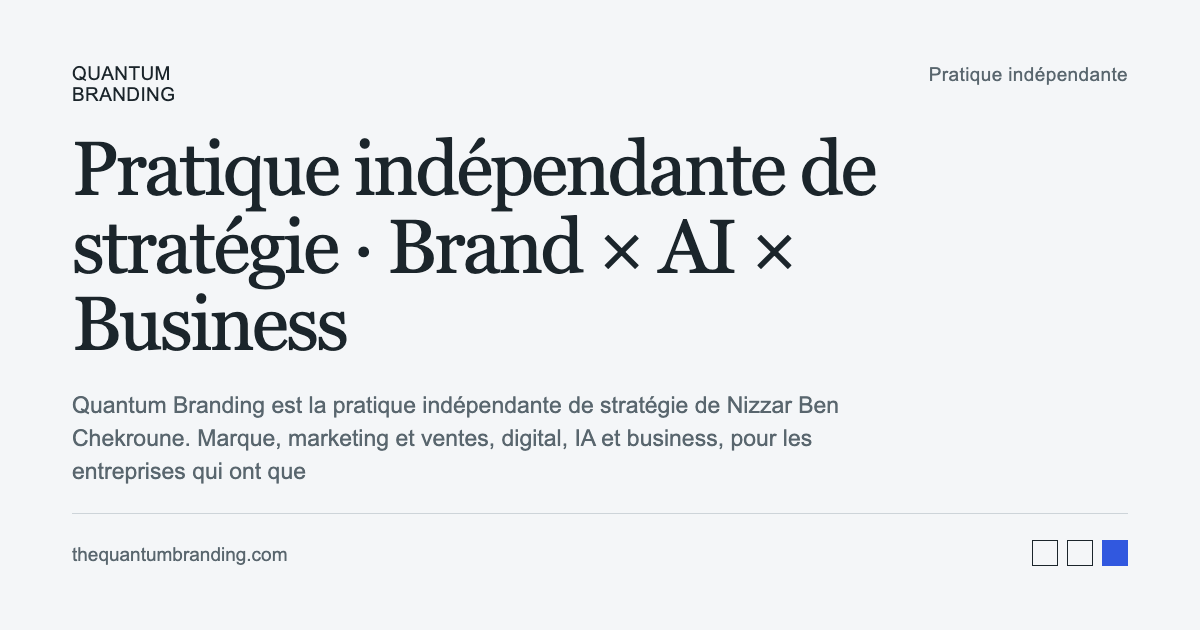
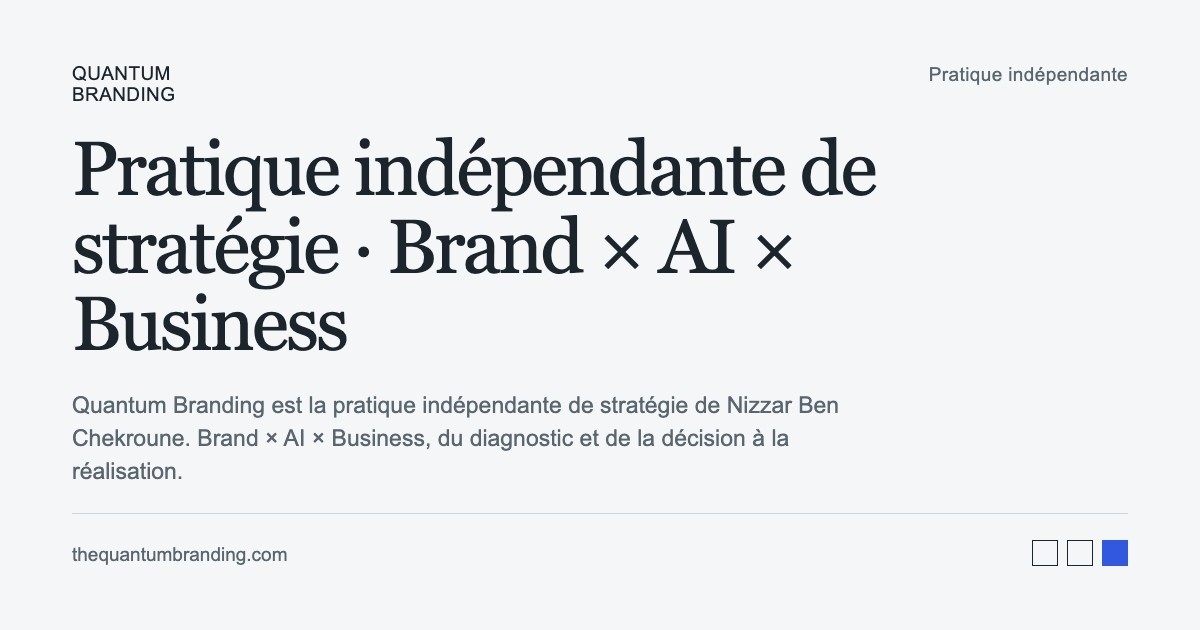
Clarify execution, diagnosis and product roles on the homepage

Changed region(s): [[0.0617, 0.6635, 0.6783, 0.7841]]

diff --git a/index.html b/index.html
@@ -4,7 +4,7 @@
 <meta charset="utf-8">
 <meta name="viewport" content="width=device-width,initial-scale=1">
 <title>Quantum Branding — Independent strategy practice · Brand × AI × Business</title>
-<meta name="description" content="Quantum Branding is the independent strategy practice of Nizzar Ben Chekroune. Brand, marketing and sales, digital, AI and business, for companies with something important to improve, launch, rethink or build.">
+<meta name="description" content="Quantum Branding is Nizzar Ben Chekroune’s independent strategy practice across Brand × AI × Business, from diagnosis and decision through implementation.">
 <meta name="author" content="Nizzar Ben Chekroune">
 <meta name="theme-color" content="#f4f6f8">
 <link rel="canonical" href="https://thequantumbranding.com/">
@@ -14,7 +14,7 @@
 <meta property="og:type" content="website">
 <meta property="og:site_name" content="Quantum Branding">
 <meta property="og:title" content="Quantum Branding — Independent strategy practice · Brand × AI × Business">
-<meta property="og:description" content="Quantum Branding is the independent strategy practice of Nizzar Ben Chekroune. Brand, marketing and sales, digital, AI and business, for companies with something important to improve, launch, rethink or build.">
+<meta property="og:description" content="Quantum Branding is Nizzar Ben Chekroune’s independent strategy practice across Brand × AI × Business, from diagnosis and decision through implementation.">
 <meta property="og:url" content="https://thequantumbranding.com/">
 <meta property="og:image" content="https://thequantumbranding.com/og/en-home.png">
 <meta property="og:image:width" content="1200">
@@ -24,7 +24,7 @@
 <meta property="og:locale:alternate" content="fr_FR">
 <meta name="twitter:card" content="summary_large_image">
 <meta name="twitter:title" content="Quantum Branding — Independent strategy practice · Brand × AI × Business">
-<meta name="twitter:description" content="Quantum Branding is the independent strategy practice of Nizzar Ben Chekroune. Brand, marketing and sales, digital, AI and business, for companies with something important to improve, launch, rethink or build.">
+<meta name="twitter:description" content="Quantum Branding is Nizzar Ben Chekroune’s independent strategy practice across Brand × AI × Business, from diagnosis and decision through implementation.">
 <meta name="twitter:image" content="https://thequantumbranding.com/og/en-home.png">
 <meta name="twitter:image:alt" content="Independent strategy practice · Brand × AI × Business · Quantum Branding">
 <link rel="icon" href="/favicon.svg" type="image/svg+xml">
@@ -34,7 +34,7 @@
 <link rel="stylesheet" href="/assets/visual-restoration.css">
 <link rel="stylesheet" href="/assets/kinetic.css">
 <link rel="stylesheet" href="/assets/studio.css">
-<script type="application/ld+json">{"@context":"https://schema.org","@graph":[{"@type":"Organization","@id":"https://thequantumbranding.com/#organization","name":"Quantum Branding","alternateName":"The Quantum Branding","description":"Independent strategy practice of Nizzar Ben Chekroune across Brand × AI × Business: brand and positioning, marketing and sales, digital and experience, AI, and business.","foundingDate":"2024","url":"https://thequantumbranding.com","sameAs":["https://www.linkedin.com/company/thequantumbranding/"],"knowsAbout":["Brand & Positioning","Marketing & Sales","Digital & Experience","AI & Intelligent Systems","AI Training & Adoption","Business & Opportunity"],"email":"me@qtmbg.com","founder":{"@id":"https://nizzar.com/#person"},"knowsLanguage":["en","fr"],"slogan":"Making got cheap. Deciding didn’t."},{"@type":"Person","@id":"https://nizzar.com/#person","name":"Nizzar Ben Chekroune","alternateName":["Nizzar","thenizzar"],"jobTitle":"Brand Strategist","description":"Brand Strategist and founder of Quantum Branding, working across Brand × AI × Business. His way of working is Perceptual Composition.","url":"https://nizzar.com","worksFor":{"@id":"https://thequantumbranding.com/#organization"},"sameAs":["https://www.linkedin.com/in/nizzar/","https://instagram.com/thenizzar","https://sessionize.com/nizzar/","https://www.imdb.com/name/nm8517643/"],"subjectOf":{"@type":"CreativeWork","url":"https://artsandculture.google.com/story/meet-the-judges-of-the-global-design-graduate-show-global-design-graduate-show/IAUxkXdAFpJIsA?hl=en"}},{"@type":"SoftwareApplication","@id":"https://quantumbranding.ai/#software","name":"BrandOS","alternateName":"BrandOS by Quantum Branding","applicationCategory":"BusinessApplication","operatingSystem":"Web","url":"https://quantumbranding.ai","publisher":{"@id":"https://thequantumbranding.com/#organization"}},{"@type":"WebPage","@id":"https://thequantumbranding.com/#page","name":"Independent strategy practice · Brand × AI × Business","headline":"Independent strategy practice · Brand × AI × Business","description":"Quantum Branding is the independent strategy practice of Nizzar Ben Chekroune. Brand, marketing and sales, digital, AI and business, for companies with something important to improve, launch, rethink or build.","url":"https://thequantumbranding.com/","inLanguage":"en","isPartOf":{"@type":"WebSite","@id":"https://thequantumbranding.com/#website","name":"Quantum Branding","url":"https://thequantumbranding.com"},"image":"https://thequantumbranding.com/og/en-home.png","publisher":{"@id":"https://thequantumbranding.com/#organization"}}]}</script>
+<script type="application/ld+json">{"@context":"https://schema.org","@graph":[{"@type":"Organization","@id":"https://thequantumbranding.com/#organization","name":"Quantum Branding","alternateName":"The Quantum Branding","description":"Independent strategy practice of Nizzar Ben Chekroune across Brand × AI × Business: brand and positioning, marketing and sales, digital and experience, AI, and business.","foundingDate":"2024","url":"https://thequantumbranding.com","sameAs":["https://www.linkedin.com/company/thequantumbranding/"],"knowsAbout":["Brand & Positioning","Marketing & Sales","Digital & Experience","AI & Intelligent Systems","AI Training & Adoption","Business & Opportunity"],"email":"me@qtmbg.com","founder":{"@id":"https://nizzar.com/#person"},"knowsLanguage":["en","fr"],"slogan":"Making got cheap. Deciding didn’t."},{"@type":"Person","@id":"https://nizzar.com/#person","name":"Nizzar Ben Chekroune","alternateName":["Nizzar","thenizzar"],"jobTitle":"Brand Strategist","description":"Brand Strategist and founder of Quantum Branding, working across Brand × AI × Business. His way of working is Perceptual Composition.","url":"https://nizzar.com","worksFor":{"@id":"https://thequantumbranding.com/#organization"},"sameAs":["https://www.linkedin.com/in/nizzar/","https://instagram.com/thenizzar","https://sessionize.com/nizzar/","https://www.imdb.com/name/nm8517643/"],"subjectOf":{"@type":"CreativeWork","url":"https://artsandculture.google.com/story/meet-the-judges-of-the-global-design-graduate-show-global-design-graduate-show/IAUxkXdAFpJIsA?hl=en"}},{"@type":"SoftwareApplication","@id":"https://quantumbranding.ai/#software","name":"BrandOS","alternateName":"BrandOS by Quantum Branding","applicationCategory":"BusinessApplication","operatingSystem":"Web","url":"https://quantumbranding.ai","publisher":{"@id":"https://thequantumbranding.com/#organization"}},{"@type":"WebPage","@id":"https://thequantumbranding.com/#page","name":"Independent strategy practice · Brand × AI × Business","headline":"Independent strategy practice · Brand × AI × Business","description":"Quantum Branding is Nizzar Ben Chekroune’s independent strategy practice across Brand × AI × Business, from diagnosis and decision through implementation.","url":"https://thequantumbranding.com/","inLanguage":"en","isPartOf":{"@type":"WebSite","@id":"https://thequantumbranding.com/#website","name":"Quantum Branding","url":"https://thequantumbranding.com"},"image":"https://thequantumbranding.com/og/en-home.png","publisher":{"@id":"https://thequantumbranding.com/#organization"}}]}</script>
 <script type="module" src="/app.js" defer></script>
 <script type="module" src="/assets/motion.mjs"></script>
 </head>
@@ -51,7 +51,7 @@
 </header>
 <main id="main">
 
-<section class="hero wrap"><p class="eyebrow hero-eyebrow">Quantum Branding · An independent strategy practice</p><h1>Strategy across<br><em>Brand × AI × Business.</em></h1><p class="hero-description">Quantum Branding is the independent practice of Nizzar Ben Chekroune. I help companies see what is true, decide what matters and make it real.</p><p class="hero-areas">Brand · Marketing &amp; Sales · Digital · AI · Business</p><a class="button" href="/start">Start a project</a><a class="button secondary" href="/work">See the work</a></section><section class="section wrap home-territories"><div class="section-heading"><h2>What I work on.</h2><p>Six areas. Most projects start in one and touch several.</p></div><div class="history-list"><article class="visual-territory"><div class="territory-object" aria-hidden="true"><span>01</span><i></i></div><h3>Brand & Positioning</h3><p>Choose the position, narrative and identity that express where the business is going.</p></article><article class="visual-territory"><div class="territory-object" aria-hidden="true"><span>02</span><i></i></div><h3>Marketing & Sales</h3><p>Clarify the offer and the path from interest to a commercial decision.</p></article><article class="visual-territory"><div class="territory-object" aria-hidden="true"><span>03</span><i></i></div><h3>Digital & Experience</h3><p>Build a website, journey or product around what people need to do.</p></article><article class="visual-territory"><div class="territory-object" aria-hidden="true"><span>04</span><i></i></div><h3>AI & Intelligent Systems</h3><p>Improve a workflow with an automation, an internal tool or a useful prototype.</p></article><article class="visual-territory"><div class="territory-object" aria-hidden="true"><span>05</span><i></i></div><h3>AI Training & Adoption</h3><p>Help leaders and teams make practical choices about AI in their own work.</p></article><article class="visual-territory"><div class="territory-object" aria-hidden="true"><span>06</span><i></i></div><h3>Business & Opportunity</h3><p>Investigate a market, a model or a possibility before committing resources.</p></article></div><a class="text-link" href="/practice">How the practice works</a></section><section class="section wrap "><div class="section-heading"><h2>Decisions, made tangible.</h2><a class="text-link" href="/work">Explore the work</a></div><div class="case-grid"><a class="case-card" href="/work/selvaggi"><div class="case-art visual-selvaggi"><div class="case-decoration" aria-hidden="true"><span>S</span></div><span class="case-name">Selvaggi</span></div><div class="case-info"><p class="eyebrow">Brand · Digital · Commercial</p><h3>Selvaggi</h3><p>A contractor that builds inside working hospitals. The brand said none of it.</p><span class="text-link">Read the case ↗</span></div></a><a class="case-card" href="/work/verne-jewels"><div class="case-art visual-verne"><div class="case-decoration" aria-hidden="true"><i></i><i></i></div><span class="case-name">Verne Jewels</span></div><div class="case-info"><p class="eyebrow">Strategy · Jewelry</p><h3>Verne Jewels</h3><p>Beautiful images where you could not see the jewellery.</p><span class="text-link">Read the case ↗</span></div></a></div><p class="field-hint">More than two decades across brand, marketing and emerging technology.</p><p>USAID · UNIDO · Audi · TV5 Monde · UM6P · The New York Times · TIME · Google Arts &amp; Culture · Los Angeles Lakers</p></section><section class="section wrap "><div class="split thesis"><h2>Making got cheap.<br><em>Deciding didn’t.</em></h2><div class="prose"><p>I build with AI. Production is fast now. The question before production is worth more than it has ever been: what deserves to exist here.</p><p>Before you commit, your company is several plausible companies at once. The premium one. The playful one. The technical one. At 2am they all look right. The collapse is choosing one and holding it. The one that survives your market, your competitors and your own attention.</p></div></div></section><section class="section wrap home-method"><div class="section-heading"><h2>How I work.</h2><p>The Collapse. A method for moving from plausible directions to a choice you can build and hold.</p></div><div class="method-stage"><div class="visual-scene process-gallery" aria-hidden="true"><div class="process-card process-0" data-process="0"><span class="process-index">01</span><div class="process-study"><div class="type-study"><span>Aa</span><span>Aa</span><span>Aa</span></div></div><span class="process-title">Observe</span><span class="process-arrow">↗</span></div><div class="process-card process-1 is-selected" data-process="1"><span class="process-index">02</span><div class="process-study"><div class="decision-study"><i style="--i:0"></i><i style="--i:1"></i><i style="--i:2"></i><i style="--i:3"></i><i style="--i:4"></i><i style="--i:5"></i><i style="--i:6"></i><i style="--i:7"></i><i style="--i:8"></i></div></div><span class="process-title">Collapse</span><span class="process-arrow">↗</span></div><div class="process-card process-2" data-process="2"><span class="process-index">03</span><div class="process-study"><div class="build-study"><i style="--i:0"></i><i style="--i:1"></i><i style="--i:2"></i><i style="--i:3"></i><i style="--i:4"></i><i style="--i:5"></i></div></div><span class="process-title">Build</span><span class="process-arrow">↗</span></div><div class="process-card process-3" data-process="3"><span class="process-index">04</span><div class="process-study"><div class="hold-study"><i style="--i:0"></i><i style="--i:1"></i><i style="--i:2"></i><i style="--i:3"></i><i style="--i:4"></i><i style="--i:5"></i><i style="--i:6"></i><i style="--i:7"></i></div></div><span class="process-title">Hold</span><span class="process-arrow">↗</span></div></div></div><p class="method-caption">Observe what happens. Collapse many plausible directions into one choice. Build what the decision requires. Hold it in use.</p><a class="text-link" href="/practice/method">Read the method</a></section><section class="section wrap "><div class="split"><h2>Behind<br>the practice.</h2><div class="prose"><p>I’m Nizzar Ben Chekroune, a brand strategist and the founder of Quantum Branding. I connect patterns across brand, business and technology, choose a direction with you, then build what the decision requires. You work directly with me.</p><p>The practice is informed by Perceptual Composition, my way of seeing what is true, deciding what matters and turning perception into form.</p><p class="triad" lang="en">See what is true.<br>Decide what matters.<br>Make it real.</p><p class="link-row"><a class="text-link" href="https://nizzar.com/perceptual-composition">Explore Perceptual Composition</a><a class="text-link" href="/about">About Nizzar</a></p></div></div></section><section class="section wrap "><div class="split"><h2>From<br>the Lab.</h2><div class="prose"><p>I also build instruments, in Quantum Lab. BrandOS is the main one: a brand intelligence product. Idea in, brand out.</p><p class="link-row"><a class="text-link" href="https://quantumbranding.ai">Explore BrandOS</a><a class="text-link" href="/lab">Visit the Lab</a></p></div></div></section><section class="section wrap "><div class="section-heading"><h2>Thinking that changes the work.</h2><a class="text-link" href="/thinking">All essays</a></div><div class="essay-list"><a href="/thinking/the-collapse"><article><span class="essay-number">01</span><h3>The Collapse</h3><p>Observe, Collapse, Build, Hold: a method for turning plausible directions into a decision a business can carry.</p><span class="text-link">Read the essay</span></article></a><a href="/thinking/the-brief-before-the-brief"><article><span class="essay-number">02</span><h3>The Brief Before the Brief</h3><p>The questions that should precede a request for a new identity, website, campaign or AI workflow.</p><span class="text-link">Read the essay</span></article></a></div></section><section class="section wrap closing-fork"><div class="section-heading"><h2>What needs to change?</h2><p>Start with where you are. I will help define the next move.</p></div><div class="fork"><a class="fork-option" href="mailto:me@qtmbg.com"><h2>I know what I need.</h2><p>A clear project. Tell me the result, the scope and the timing.</p><span class="text-link">Tell me about your project</span></a><a class="fork-option" href="/start"><h2>Something needs to change.</h2><p>Describe what is happening. We can work out the right starting point together.</p><span class="text-link">Find my starting point</span></a></div></section>
+<section class="hero wrap"><p class="eyebrow hero-eyebrow">Quantum Branding · An independent strategy practice</p><h1>Strategy across<br><em>Brand × AI × Business.</em></h1><p class="hero-description">Quantum Branding is the independent practice of Nizzar Ben Chekroune. I help companies see what is true, decide what matters and make it real.</p><p class="hero-areas">From strategic diagnosis and decision through implementation.</p><a class="button" href="/start">Start a project</a><a class="button secondary" href="/work">See the work</a></section><section class="section wrap home-territories"><div class="section-heading"><h2>What I work on.</h2><p>Six areas. Most projects start in one and touch several.</p></div><div class="history-list"><article><h3>Brand & Positioning</h3><p>Choose the position, narrative and identity that express where the business is going.</p></article><article><h3>Marketing & Sales</h3><p>Clarify the offer and the path from interest to a commercial decision.</p></article><article><h3>Digital & Experience</h3><p>Build a website, journey or product around what people need to do.</p></article><article><h3>AI & Intelligent Systems</h3><p>Improve a workflow with an automation, an internal tool or a useful prototype.</p></article><article><h3>AI Training & Adoption</h3><p>Help leaders and teams make practical choices about AI in their own work.</p></article><article><h3>Business & Opportunity</h3><p>Investigate a market, a model or a possibility before committing resources.</p></article></div><a class="text-link" href="/practice">How the practice works</a></section><section class="section wrap "><div class="section-heading"><h2>Decisions, made tangible.</h2><a class="text-link" href="/work">Explore the work</a></div><div class="case-grid"><a class="case-card" href="/work/selvaggi"><div class="case-art visual-selvaggi"><div class="case-decoration" aria-hidden="true"><span>S</span></div><span class="case-name">Selvaggi</span></div><div class="case-info"><p class="eyebrow">Brand · Digital · Commercial</p><h3>Selvaggi</h3><p>A contractor that builds inside working hospitals. The brand said none of it.</p><p class="case-evidence">Named the occupied-site expertise, rebuilt the website and put brand rules into the team’s tools.</p><span class="text-link">Read the case ↗</span></div></a><a class="case-card" href="/work/verne-jewels"><div class="case-art visual-verne"><div class="case-decoration" aria-hidden="true"><i></i><i></i></div><span class="case-name">Verne Jewels</span></div><div class="case-info"><p class="eyebrow">Strategy · Jewelry</p><h3>Verne Jewels</h3><p>Beautiful images where you could not see the jewellery.</p><p class="case-evidence">Replaced a weekly content rhythm with a monthly production system, then handed it over.</p><span class="text-link">Read the case ↗</span></div></a></div><p class="field-hint">Selected references from my career, beginning in 2008.</p><p>USAID · UNIDO · Audi · TV5 Monde · UM6P · The New York Times · TIME · Google Arts &amp; Culture · Los Angeles Lakers</p></section><section class="section wrap "><div class="split thesis"><h2>Making got cheap.<br><em>Deciding didn’t.</em></h2><div class="prose"><p>I build with AI. Production is fast now. The question before production is worth more than it has ever been: what deserves to exist here.</p><p>Before you commit, your company is several plausible companies at once. The premium one. The playful one. The technical one. At 2am they all look right. The collapse is choosing one and holding it. The one that survives your market, your competitors and your own attention.</p></div></div></section><section class="section wrap home-method"><div class="section-heading"><h2>How I work.</h2><p>The Collapse. A method for moving from plausible directions to a choice you can build and hold.</p></div><div class="method-stage"><div class="visual-scene process-gallery" aria-hidden="true"><div class="process-card process-0" data-process="0"><span class="process-index">01</span><div class="process-study"><div class="type-study"><span>Aa</span><span>Aa</span><span>Aa</span></div></div><span class="process-title">Observe</span><span class="process-arrow">↗</span></div><div class="process-card process-1 is-selected" data-process="1"><span class="process-index">02</span><div class="process-study"><div class="decision-study"><i style="--i:0"></i><i style="--i:1"></i><i style="--i:2"></i><i style="--i:3"></i><i style="--i:4"></i><i style="--i:5"></i><i style="--i:6"></i><i style="--i:7"></i><i style="--i:8"></i></div></div><span class="process-title">Collapse</span><span class="process-arrow">↗</span></div><div class="process-card process-2" data-process="2"><span class="process-index">03</span><div class="process-study"><div class="build-study"><i style="--i:0"></i><i style="--i:1"></i><i style="--i:2"></i><i style="--i:3"></i><i style="--i:4"></i><i style="--i:5"></i></div></div><span class="process-title">Build</span><span class="process-arrow">↗</span></div><div class="process-card process-3" data-process="3"><span class="process-index">04</span><div class="process-study"><div class="hold-study"><i style="--i:0"></i><i style="--i:1"></i><i style="--i:2"></i><i style="--i:3"></i><i style="--i:4"></i><i style="--i:5"></i><i style="--i:6"></i><i style="--i:7"></i></div></div><span class="process-title">Hold</span><span class="process-arrow">↗</span></div></div></div><p class="method-caption">Observe what happens. Collapse many plausible directions into one choice. Build what the decision requires. Hold it in use.</p><a class="text-link" href="/practice/method">Read the method</a></section><section class="section wrap "><div class="split"><h2>Behind<br>the practice.</h2><div class="prose"><p>I’m Nizzar Ben Chekroune, a brand strategist and the founder of Quantum Branding. I enter the reality of a company or project to understand what is there, what is emerging and where the real problem lies. Then I choose a direction with you and build what it requires. You work directly with me.</p><p>The practice is informed by Perceptual Composition, my way of seeing what is true, deciding what matters and turning perception into form.</p><p class="triad" lang="en">See what is true.<br>Decide what matters.<br>Make it real.</p><p class="link-row"><a class="text-link" href="https://nizzar.com/perceptual-composition">Explore Perceptual Composition</a><a class="text-link" href="/about">About Nizzar</a></p></div></div></section><section class="section wrap "><div class="split"><h2>From<br>the Lab.</h2><div class="prose"><p>BrandOS grew out of the practice, in Quantum Lab. It is a brand intelligence product that helps organize the first reading of a company. It surfaces the patterns. I decide what matters.</p><p class="link-row"><a class="text-link" href="https://quantumbranding.ai">Explore BrandOS</a><a class="text-link" href="/lab">Visit the Lab</a></p></div></div></section><section class="section wrap "><div class="section-heading"><h2>Thinking that changes the work.</h2><a class="text-link" href="/thinking">All essays</a></div><div class="essay-list"><a href="/thinking/the-collapse"><article><span class="essay-number">01</span><h3>The Collapse</h3><p>Observe, Collapse, Build, Hold: a method for turning plausible directions into a decision a business can carry.</p><span class="text-link">Read the essay</span></article></a><a href="/thinking/the-brief-before-the-brief"><article><span class="essay-number">02</span><h3>The Brief Before the Brief</h3><p>The questions that should precede a request for a new identity, website, campaign or AI workflow.</p><span class="text-link">Read the essay</span></article></a></div></section><section class="section wrap closing-fork"><div class="section-heading"><h2>What needs to change?</h2><p>Start with where you are. I will help define the next move.</p></div><div class="fork"><a class="fork-option" href="mailto:me@qtmbg.com"><h2>I know what I need.</h2><p>A clear project. Tell me the result, the scope and the timing.</p><span class="text-link">Tell me about your project</span></a><a class="fork-option" href="/start"><h2>Something needs to change.</h2><p>Describe what is happening. We can work out the right starting point together.</p><span class="text-link">Find my starting point</span></a></div></section>
 </main>
 <footer class="site-footer">
 <p class="footer-author">Quantum Branding<br>Nizzar Ben Chekroune</p>

diff --git a/assets/studio.css b/assets/studio.css
@@ -144,3 +144,13 @@
 .link-row{display:flex;flex-wrap:wrap;gap:14px 28px}
 @media(max-width:800px){.hero>.button{justify-self:start}.section-heading{align-items:flex-start}}
 @media(max-width:540px){.hero .hero-eyebrow{text-align:left;font-size:12px;margin:0 0 14px}.hero .hero-description{margin:22px 0 12px}.hero .hero-areas{font-size:14px;margin:0 0 20px}.hero>.button{align-self:flex-start}.hero>.button.secondary{margin-top:10px}.method-caption{font-size:16px}.prose .triad{font-size:26px}}
+
+/* The homepage gives the six territories a concise introduction; /practice retains the full treatment. */
+.home-territories .history-list{display:grid;grid-template-columns:repeat(3,minmax(0,1fr));gap:24px 30px;border-top:1px solid var(--line);padding-top:28px}
+.home-territories .history-list article{display:block;border:0;padding:0}
+.home-territories .history-list h3{font-size:25px;letter-spacing:-.03em;margin-bottom:10px}
+.home-territories .history-list p{font-size:15px}
+.home-territories>.text-link{margin-top:28px}
+.case-info .case-evidence{margin-top:16px}
+@media(max-width:800px){.home-territories .history-list{grid-template-columns:repeat(2,minmax(0,1fr))}}
+@media(max-width:540px){.home-territories .history-list{grid-template-columns:1fr;gap:22px}}

diff --git a/docs/INDEPENDENT-AUDIT-2026-10-04.md b/docs/INDEPENDENT-AUDIT-2026-10-04.md
@@ -1,0 +1,126 @@
+# Independent Quantum Branding homepage audit
+
+## Repository and deployment evidence
+
+- Actual repository: https://github.com/qtmbg/website, origin main at 23b06348aa576c1b450e12d83d37cd8fa8b11cd1. The expected qtmbg/quantum-branding repository could not be resolved.
+- Production Vercel project: website, prj_gxgIltcMr3ctPPAq6LvDtWs7vS6f. The GitHub Production deployment records identify this commit. Production custom domains remain unchanged by this pass.
+- Supplied preview: quantum-branding-preview, prj_WvGOtijHNFO4G7Lu67uzNy0p4s4H. Vercel reports link=null and gitSource=null. It is an independently uploaded static presentation, not the repository's current main deployment.
+- Captured preview initially used the older thesis-led homepage. Its English method page and both practice PDF links returned 404. The preview also carried older biography, career, and founding-date copy.
+- AI Value Mapping task was inactive. Its separate checkout is on feat/ai-value-mapping with uncommitted changes to shared files and new funnel files. This pass uses a fresh clone, leaves that checkout untouched, and does not add /ai-value-mapping or change offer formats. Both deployed sites returned 404 for that unfinished route.
+
+## Findings
+
+Production's block order already solves the main hierarchy problem: business definition, territories, real work, thesis, client method, Nizzar and personal method, Lab, thinking, contact. Its headline, six canonical territories, case bodies, first-person voice, and conversion fork should stay.
+
+The preview regressed that order. Its first screen required visitors to infer what the practice was from a thesis and multiple method shortcuts. It lacked the homepage territories, personal-method relationship, and Lab explanation. A blanket diagnosis that both sites needed the same hierarchy rebuild would therefore be wrong.
+
+Production still left execution implicit in “make it real,” repeated five abbreviated disciplines immediately before the full six territories, gave the territories large numeral treatments, and offered problem descriptions without the resulting work in its case introductions. The founder paragraph described connecting patterns more readily than entering the company's reality. The Lab's “Idea in, brand out” line conveyed output more strongly than the practice/product/judgment distinction. “More than two decades” contradicted the documented professional start in 2008.
+
+## Exact homepage copy changes, English
+
+Hero line removed:
+> Brand · Marketing & Sales · Digital · AI · Business
+
+Hero line introduced:
+> From strategic diagnosis and decision through implementation.
+
+The hero eyebrow, headline, founder/value paragraph and both action labels remain unchanged in the repository. The preview now uses these same lines, including:
+> Quantum Branding · An independent strategy practice
+>
+> Strategy across Brand × AI × Business.
+>
+> Quantum Branding is the independent practice of Nizzar Ben Chekroune. I help companies see what is true, decide what matters and make it real.
+>
+> Start a project
+>
+> See the work
+
+Selvaggi introduction added:
+> Named the occupied-site expertise, rebuilt the website and put brand rules into the team’s tools.
+
+Verne Jewels introduction added:
+> Replaced a weekly content rhythm with a monthly production system, then handed it over.
+
+These summarize the founder-supplied cases and their confirmed handover status. No outcomes or figures were invented. The complete case bodies remain unchanged.
+
+Reference caption removed:
+> More than two decades across brand, marketing and emerging technology.
+
+Reference caption introduced:
+> Selected references from my career, beginning in 2008.
+
+Behind the practice paragraph replaced:
+> I’m Nizzar Ben Chekroune, a brand strategist and the founder of Quantum Branding. I connect patterns across brand, business and technology, choose a direction with you, then build what the decision requires. You work directly with me.
+
+With:
+> I’m Nizzar Ben Chekroune, a brand strategist and the founder of Quantum Branding. I enter the reality of a company or project to understand what is there, what is emerging and where the real problem lies. Then I choose a direction with you and build what it requires. You work directly with me.
+
+Lab paragraph replaced:
+> I also build instruments, in Quantum Lab. BrandOS is the main one: a brand intelligence product. Idea in, brand out.
+
+With:
+> BrandOS grew out of the practice, in Quantum Lab. It is a brand intelligence product that helps organize the first reading of a company. It surfaces the patterns. I decide what matters.
+
+The last two sentences already existed on /practice and remain there verbatim. Existing Lab product copy on /lab is retained.
+
+Homepage metadata description introduced:
+> Quantum Branding is Nizzar Ben Chekroune’s independent strategy practice across Brand × AI × Business, from diagnosis and decision through implementation.
+
+## Exact homepage copy changes, French
+
+Hero line removed:
+> Marque · Marketing & Ventes · Digital · IA · Business
+
+Hero line introduced:
+> Du diagnostic stratégique et de la décision à la réalisation.
+
+Selvaggi introduction added:
+> L’expertise en site occupé a été nommée, le site reconstruit et les règles de marque intégrées aux outils de l’équipe.
+
+Verne Jewels introduction added:
+> Le rythme hebdomadaire a laissé place à un système de production mensuel, puis à une passation.
+
+Reference caption removed:
+> Plus de vingt ans entre marque, marketing et technologies émergentes.
+
+Reference caption introduced:
+> Quelques références de mon parcours, commencé en 2008.
+
+Behind the practice paragraph replaced:
+> Je suis Nizzar Ben Chekroune, stratège de marque et fondateur de Quantum Branding. Je relie les schémas entre marque, business et technologie, choisis une direction avec vous, puis construis ce qu’elle exige. Vous travaillez directement avec moi.
+
+With:
+> Je suis Nizzar Ben Chekroune, stratège de marque et fondateur de Quantum Branding. J’entre dans la réalité d’une entreprise ou d’un projet pour comprendre ce qui existe, ce qui émerge et où se situe le vrai problème. Puis je choisis une direction avec vous et construis ce qu’elle exige. Vous travaillez directement avec moi.
+
+Lab paragraph replaced:
+> Je construis aussi des instruments, dans Quantum Lab. BrandOS est le principal : un produit d’intelligence de marque. Une idée entre, une marque prend forme.
+
+With:
+> BrandOS est né de la pratique, au sein de Quantum Lab. Ce produit d’intelligence de marque aide à structurer la première lecture d’une entreprise. Il fait apparaître les schémas. Je décide de ce qui compte.
+
+Homepage metadata description introduced:
+> Quantum Branding est la pratique indépendante de stratégie de Nizzar Ben Chekroune. Brand × AI × Business, du diagnostic et de la décision à la réalisation.
+
+## Layout and preview alignment
+
+Repository: retain the current order. Give the six territories a concise introduction with existing headings and descriptions, without large decorative numerals. /practice retains its full territory treatment. Add source-supported proof sentences; keep both complete cases and all references.
+
+Preview before: thesis hero and method widgets → method caption → judgment/thesis window → proof → references → method → thinking → contact.
+
+Preview after: practice hero → six territories → proof/references → thesis → client method → Nizzar/Perceptual Composition → BrandOS/Lab → thinking → contact.
+
+The preview's existing folders, dock, typography, colors, document windows and proof notes stay. Method/reading widgets move to their corresponding later sections; the method folder shortcut becomes Practice. Phone visitors proceed directly from the hero to the territories; duplicate decorative desktop shortcuts no longer delay comprehension. A narrow-dock spacing correction avoids overflow at 320px. Moved reading controls receive accessible labels.
+
+“Making got cheap. Deciding didn’t.” stays as the thesis. The preview's old “Judgment, then execution” window becomes the thesis window; the founder receives the separate Behind the practice block. The redundant method notification and “See how engagements start” section are removed. Observe/Collapse/Build/Hold and the full method remain. Preview interior biography and identity metadata are aligned with the already-published repository source, including the canonical personal-method link and established 2024 founding date.
+
+## Ecosystem boundaries
+
+Nizzar is the strategist/founder and person whose judgment directs the work. Perceptual Composition is the personal method, lightly explained and linked to nizzar.com/perceptual-composition. Quantum Branding is the commercial strategy practice. The Collapse is its client engagement method. BrandOS is a product born from the practice; it surfaces patterns while human judgment decides what matters. SIGNAL is the separate publication and remains outside this homepage's commercial/method architecture; Signal Scan remains a distinct BrandOS instrument. AI Value Mapping remains the unfinished commercial entry funnel in its separate branch.
+
+## Verification
+
+Repository: build and all 35 tests; 52 browser route loads with menu/language/brief/download checks; 168 responsive measurements; motion and JS-off checks; 84 restoration boundary checks. A new authorized editorial fixture preserves the previous fixtures. Comparing the previous and new fingerprints changes only / and /fr. The location test's pre-existing “working across” false positive is removed; its geographical protections remain.
+
+Preview: 168 responsive measurements; 52 browser route loads; additional 18 homepage layouts at 320–1920px; all 45 internal page/resource paths and external personal-method/BrandOS links. All four original English/French preview case bodies and both original contact forks are unchanged. No new metrics, testimonials, logos or client claims.
+
+The final first screen identifies the practice, Nizzar, Brand × AI × Business and execution, with a visible action. The next section answers what can be hired; the case introductions and full cases connect diagnosis to decisions and built work. The personal-method and product explanations follow that commercial comprehension.

diff --git a/CLAUDE.md b/CLAUDE.md
@@ -9,7 +9,7 @@ Clarity first, depth second. The homepage reads in this order and the tests lock
 1. Hero: what the practice is (independent strategy practice), the territory
    (Brand × AI × Business), Nizzar named as the person behind it, the value line
    ("I help companies see what is true, decide what matters and make it real"),
-   the five areas, then two actions (Start a project, See the work).
+   an explicit line from strategic diagnosis and decision through implementation, then two actions (Start a project, See the work).
 2. The six territories. 3. Selected work and references.
 4. The thesis: "Making got cheap. Deciding didn't." It is the thesis, not the definition.
 5. How I work: The Collapse (Observe, Collapse, Build, Hold). The four expanding
@@ -19,7 +19,8 @@ Clarity first, depth second. The homepage reads in this order and the tests lock
    Never present Perceptual Composition as a Quantum Branding method or merge it
    with The Collapse. Its full text belongs on nizzar.com only.
 7. From the Lab: BrandOS. 8. Thinking. 9. Contact fork.
-The restoration fixture `editorial-2026-10-03-clarity.json` records this pass;
+The restoration fixture `editorial-2026-10-04-independent-clarity.json` records the independent clarity pass authorized on 4 October;
+`editorial-2026-10-03-clarity.json` records the preceding pass;
 `editorial-2026-09-14-career.json` stays as the historical baseline.
 
 ## Identité visuelle canonique
